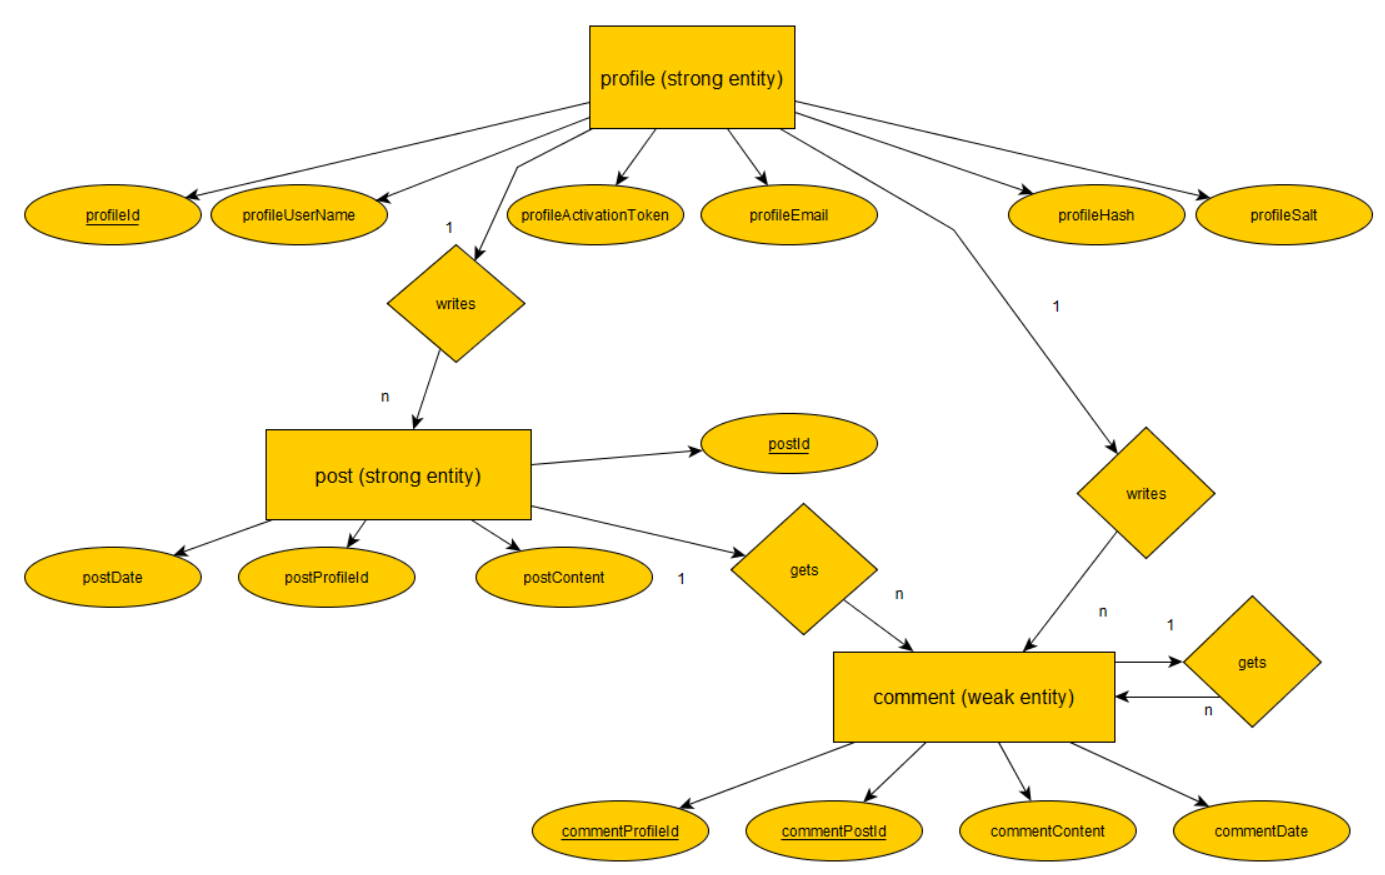
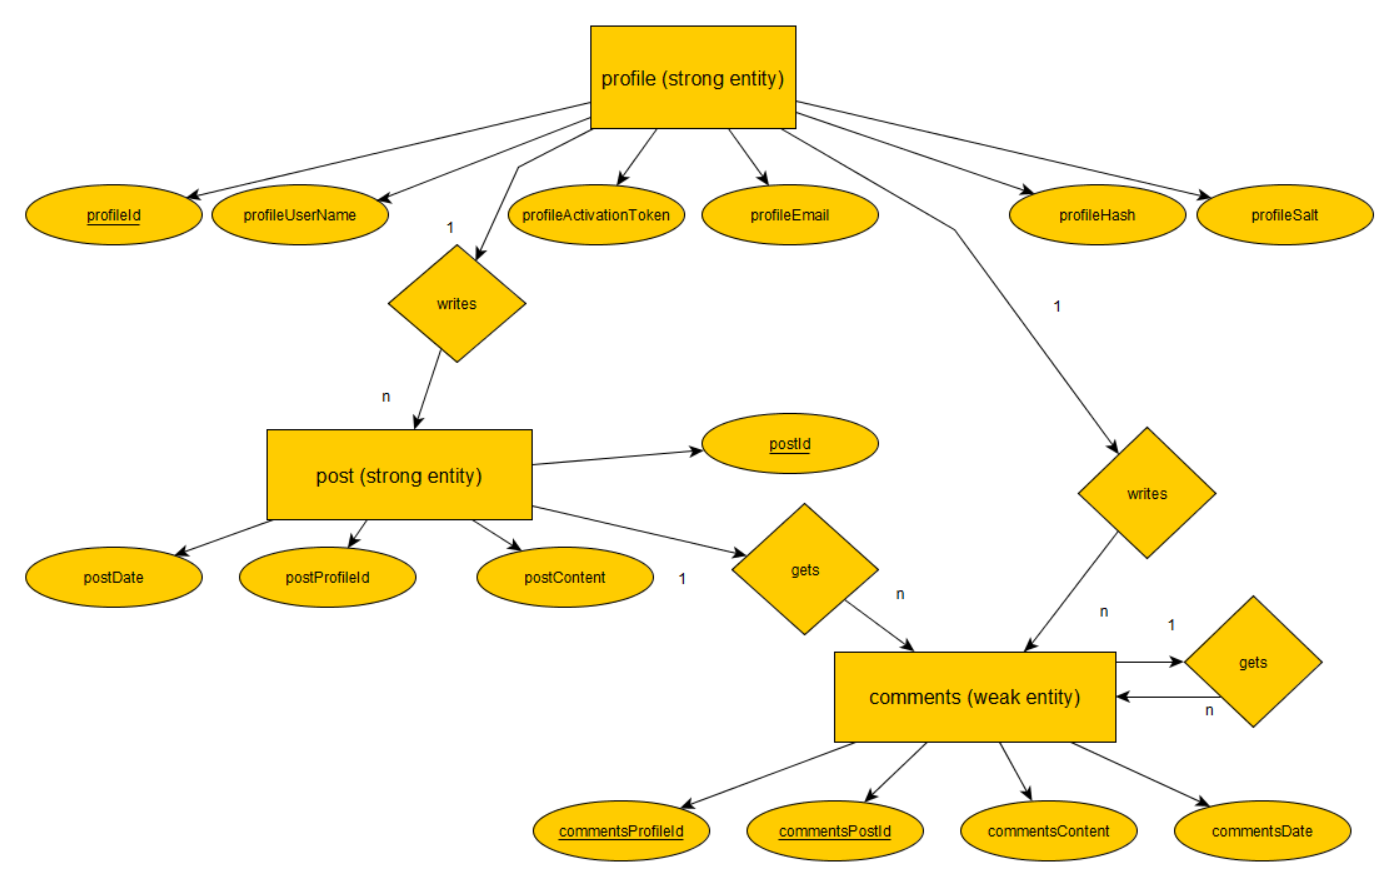
created tables in reddit.sql and corrected erd.png

diff --git a/index.php b/index.php
@@ -78,12 +78,12 @@
 					<li>postContent</li>
 					<li>postDate</li>
 				</ul>
-				<h2>Comment</h2>
+				<h2>Comments</h2>
 				<ul>
-					<li>commentProfileId (foreign key)</li>
-					<li>commentPostId (foreign key)</li>
-					<li>commentContent</li>
-					<li>commentDate</li>
+					<li>commentsProfileId (foreign key)</li>
+					<li>commentsPostId (foreign key)</li>
+					<li>commentsContent</li>
+					<li>commentsDate</li>
 				</ul>
 			</div>
 			<img id="erd" src="images/data-design-erd.PNG" alt="Entity Relationship Diagram"/>
